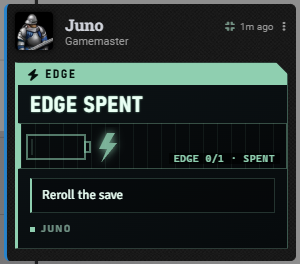
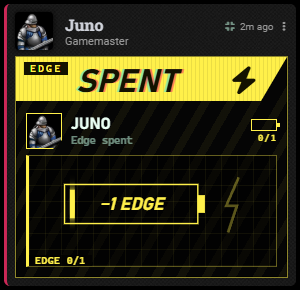
Chat cards: Edge spent, Downed and Flatline as cut-in cards; dice on plain rolls
Edge spent (no play), Downed and Flatline use the Edge plays' cut-in card in
their own colours: a draining cell, a faltering pulse, a pulse that stops,
with the Strikes so far. The posted words stay, so older cards redraw too.
A Downed card offers its owner Stabilize while they hold Edge, and redraws
as the actor changes. The earlier small scopes are gone.

Formula, Hit Die, Hit Points and recharge rolls show their dice as chips
under the title instead of repeating the formula.

diff --git a/scripts/hardwipe-message-cards.js b/scripts/hardwipe-message-cards.js
@@ -1,5 +1,8 @@
 import { MODULE_ID, escapeHTML } from "./hardwipe-state.js";
 import { rendersRequest } from "./hardwipe-requests.js";
+import { arrivalWindow } from "./hardwipe-attack-cards.js";
+import { cutInHTML, stabilize } from "./hardwipe-edge.js";
+import { DownedManager, EdgeManager, StrikesManager, canControlActor } from "./hardwipe-state.js";
 
 /**
  * Message cards, each in its own colour from the Card colours window:
@@ -35,6 +38,8 @@ export function registerMessageCards() {
     if (message.type === "turn") snapshotTurn(message);
   });
   Hooks.once("setup", () => Hooks.on("dnd5e.renderChatMessage", (message, html) => render(message, html)));
+  // A Downed card's Stabilize button follows its actor (Edge spent, back on their feet).
+  Hooks.on("updateActor", actor => rerender(message => message.flags?.[MODULE_ID]?.actorId === actor.id && message.flags?.[MODULE_ID]?.kind === "downed"));
 }
 
 function rerender(filter) {
@@ -81,36 +86,61 @@ function systemCard(message, element, card) {
   const kicker = card.querySelector(":scope > .hardwipe-chat-kicker");
   if (kicker && !kicker.querySelector(":scope > i")) kicker.insertAdjacentHTML("afterbegin", `<i class="fas ${SYSTEM_ICONS[kind]}" inert></i>`);
   element.classList.add("hardwipe-sys-message");
-  systemScope(message, card, kind);
+  if (["edge", "downed", "flatlined"].includes(kind)) survivalCard(message, element, card, kind);
 }
 
+const TRACES = {
+  edge: "",
+  // A pulse that falters and nearly fades: still alive.
+  downed: "0,58 40,58 46,50 52,66 58,58 100,58 105,53 110,63 115,58 160,58 163,56 166,60 169,58 210,58",
+  // Two beats, then nothing.
+  flatlined: "0,58 30,58 38,20 46,90 54,58 84,58 92,30 100,82 108,58 210,58"
+};
+
 /**
- * Edge spent, Downed and Flatline get a small scope under the title, in the family of the consumable and tool cards:
- * a charge cell discharging, a faltering trace, a trace that stops. Decoration only; the card's words stay.
+ * Edge spent, Downed and Flatline as cut-in cards, in the family of the Edge plays: the band in the card's own colour,
+ * whose card it is, and a scope (a draining cell, a faltering pulse, a pulse that stops) over the posted line. The
+ * card's words come from what was posted, so older cards redraw the same way. A Downed card offers its owner
+ * Stabilize while they hold Edge.
  */
-function systemScope(message, card, kind) {
-  if (!["edge", "downed", "flatlined"].includes(kind) || card.querySelector(":scope > .hardwipe-sys-scope")) return;
+function survivalCard(message, element, card, kind) {
   const actor = game.actors.get(message.flags?.[MODULE_ID]?.actorId) ?? ChatMessage.implementation.getSpeakerActor?.(message.speaker);
+  const text = selector => card.querySelector(selector)?.textContent.trim() ?? "";
+  const kicker = text(":scope > .hardwipe-chat-kicker") || t(`Survival.${kind}.Kicker`);
+  const title = text(":scope > .hardwipe-chat-title");
+  const subtitle = text(":scope > .hardwipe-chat-subtitle");
   const strikes = kind === "flatlined" ? 3 : Math.max(0, Math.min(3, Number(actor?.getFlag?.(MODULE_ID, "strikes")) || 0));
-  const pips = Array.from({ length: 3 }, (_, i) => `<i class="${i < strikes ? "is-on" : ""}"></i>`).join("");
-  const art = {
-    edge: `<svg viewBox="0 0 120 40" width="120" height="40"><rect class="sys-cell" x="6" y="8" width="58" height="24"/><rect class="sys-cell" x="64" y="15" width="5" height="10"/>
-      <rect class="sys-charge" x="10" y="12" width="50" height="16"/><path class="sys-bolt" d="M86 6 L78 22 L86 22 L80 36 L96 16 L88 16 L94 6 Z"/></svg>`,
-    downed: `<svg viewBox="0 0 270 40" preserveAspectRatio="none"><polyline class="sys-trace" points="0,26 30,26 36,22 40,30 46,26 90,26 96,24 100,28 104,26 170,26 174,25 178,27 182,26 270,26"/></svg>`,
-    flatlined: `<svg viewBox="0 0 270 40" preserveAspectRatio="none"><polyline class="sys-trace" points="0,26 24,26 30,10 36,36 42,26 70,26 76,16 82,32 88,26 270,26"/></svg>`
-  }[kind];
-  const label = {
-    edge: game.i18n.localize("HARDWIPE.SysScope.Edge"),
-    downed: game.i18n.format("HARDWIPE.SysScope.Downed", { n: strikes }),
-    flatlined: game.i18n.localize("HARDWIPE.SysScope.Flatline")
-  }[kind];
-  const scope = document.createElement("div");
-  scope.className = `hardwipe-sys-scope is-${kind}`;
-  scope.setAttribute("aria-hidden", "true");
-  scope.innerHTML = `<div class="hardwipe-sys-art">${art}</div><div class="hardwipe-sys-read">${kind === "edge" ? "" : `<span class="hardwipe-sys-pips">${pips}</span>`}<span>${escapeHTML(label)}</span></div>`;
-  card.querySelector(":scope > .hardwipe-chat-title")?.after(scope);
-  const fresh = Date.now() - (message.timestamp ?? 0) < 8000 && !globalThis.matchMedia?.("(prefers-reduced-motion: reduce)").matches;
-  if (fresh) scope.classList.add("is-arriving");
+  const pips = [0, 1, 2].map(i => `<rect class="hwe-spip${i < strikes ? " is-on" : ""}" x="${i * 18}" y="4" width="8" height="8" transform="rotate(45 ${i * 18 + 4} 8)"/>`).join("");
+  const stage = kind === "edge"
+    ? `<svg viewBox="0 0 278 96" aria-hidden="true"><rect class="hwe-cellb" x="40" y="26" width="150" height="44"/><rect class="hwe-nub" x="190" y="38" width="8" height="20"/>
+        <rect class="hwe-charge hwe-drain" x="46" y="32" width="138" height="32"/><text class="hwe-plus is-spent hwe-pop" x="115" y="49">${escapeHTML(t("Survival.edge.Minus"))}</text>
+        <path class="hwe-arc is-dim" d="M236 18 L222 50 L234 50 L224 80"/></svg>`
+    : `<svg viewBox="0 0 278 96" aria-hidden="true"><polyline class="hwe-ecg hwe-draw" points="${TRACES[kind]}"/>
+        <text class="hwe-big hwe-pop" x="270" y="40">${escapeHTML(t(`Survival.${kind}.Big`))}</text><text class="hwe-small" x="270" y="54">${escapeHTML(t("Survival.Strikes", { n: strikes }))}</text>
+        <g transform="translate(222 66)">${pips}</g></svg>`;
+  const canStabilize = kind === "downed" && actor && canControlActor(actor) && EdgeManager.get(actor) > 0 && strikes < 3 && !actor.statuses?.has("dead")
+    && (DownedManager.isDowned(actor) || Number(actor.system?.attributes?.hp?.value) <= 0);
+  const content = card.parentElement;
+  const holder = document.createElement("div");
+  holder.innerHTML = cutInHTML({
+    // The band keeps one short word; what was posted as the title reads under the name.
+    cls: `is-${kind} is-survival`, kicker, use: t(`Survival.${kind}.Use`),
+    img: escapeHTML(actor?.img ?? "icons/svg/mystery-man.svg"), name: escapeHTML(actor?.name ?? message.speaker?.alias ?? ""),
+    sub: kind === "edge" ? subtitle : title && title.toLocaleLowerCase() !== t(`Survival.${kind}.Use`).toLocaleLowerCase() ? title : t(`Survival.${kind}.Sub`), stage,
+    line: kind === "edge" ? t("Survival.edge.Line") : subtitle,
+    cell: kind === "edge" ? `<span class="hwe-cell"><i></i>0/1</span>` : "",
+    icon: `<i class="hwe-icon fas ${SYSTEM_ICONS[kind]}" inert></i>`,
+    foot: canStabilize ? `<button type="button" class="hwe-btn is-go" data-hw-stabilize>${escapeHTML(t("Survival.Stabilize"))}</button>` : "",
+    fresh: arrivalWindow(message, "survival", 1600) > 0
+  });
+  const cut = holder.firstElementChild;
+  card.replaceWith(cut);
+  cut.querySelector("[data-hw-stabilize]")?.addEventListener("click", event => {
+    event.preventDefault();
+    event.currentTarget.disabled = true;
+    void stabilize(actor);
+  });
+  if (content) content.classList.add("hardwipe-survival-content");
 }
 
 /* Shield Block: a targeting HUD over the shield's HP -------------------------------------------- */
@@ -248,7 +278,30 @@ function rollCard(message, element, content) {
   if (kind === "recharge" && roll) tag = t(roll.isSuccess ? "Roll.Recharged" : "Roll.NotRecharged");
   const card = frame(content, { kind, icon, label: t(`Roll.${kind}`), tag, title });
   if (kind === "recharge" && roll) card.classList.add(roll.isSuccess ? "is-success" : "is-failure");
+  const chips = diceChips(message.rolls ?? []);
+  if (chips) card.querySelector(".hardwipe-msg-body")?.insertAdjacentHTML("afterbegin", chips);
   element.classList.add("hardwipe-dice-message");
+}
+
+/**
+ * Each die as a chip, in roll order (a die's highest face lit, a 1 dimmed red; dropped dice struck), and any flat
+ * bonus: the roll at a glance. The native total below still opens the full breakdown.
+ */
+function diceChips(rolls) {
+  const out = [];
+  for (const roll of rolls) {
+    for (const term of roll.terms ?? []) {
+      if (term instanceof foundry.dice.terms.DiceTerm) {
+        for (const result of term.results ?? []) {
+          const dropped = result.active === false || result.discarded;
+          const cls = dropped ? "is-dropped" : result.result === term.faces ? "is-max" : result.result === 1 ? "is-min" : "";
+          out.push(`<i class="${cls}" data-tooltip="d${term.faces}">${escapeHTML(result.result)}</i>`);
+        }
+      } else if (term instanceof foundry.dice.terms.NumericTerm && Number(term.number)) out.push(`<span>${escapeHTML(term.expression ?? term.number)}</span>`);
+      else if (term instanceof foundry.dice.terms.OperatorTerm) out.push(`<em>${escapeHTML(term.operator)}</em>`);
+    }
+  }
+  return out.length ? `<div class="hardwipe-roll-chips">${out.join("")}</div>` : "";
 }
 
 /** The message's item, if any. dnd5e's lookup can throw on a message with an actor and no item. */

diff --git a/styles/edge.css b/styles/edge.css
@@ -17,7 +17,7 @@
 .hwe-slash { position: relative; display: grid; grid-template-columns: auto 1fr auto; align-items: end; gap: 8px; height: 50px; padding: 0 10px 4px 0; }
 .hwe-band { position: absolute; inset: 0 0 6px 0; background: var(--hw-edge); clip-path: polygon(0 0, 100% 0, calc(100% - 26px) 100%, 0 100%); }
 .hwe-band::after { content: ""; position: absolute; inset: 0; background: repeating-linear-gradient(90deg, transparent 0 3px, rgba(0, 0, 0, 0.08) 3px 4px); }
-.hwe-kick { position: relative; align-self: start; margin: 5px 0 0 8px; padding: 1px 6px; color: var(--hw-edge); background: var(--hw-edge-ink); font: 700 10px var(--hw-font-mono); letter-spacing: 0.22em; text-transform: uppercase; }
+.hwe-kick { position: relative; align-self: start; white-space: nowrap; margin: 5px 0 0 8px; padding: 1px 6px; color: var(--hw-edge); background: var(--hw-edge-ink); font: 700 10px var(--hw-font-mono); letter-spacing: 0.22em; text-transform: uppercase; }
 .hwe-use { position: relative; margin-bottom: 5px; color: var(--hw-edge-ink); font: italic 800 32px/0.9 var(--hw-font-disp); letter-spacing: 0.02em; text-transform: uppercase;
   text-shadow: 2px 0 0 rgba(255, 46, 99, 0.55), -2px 0 0 rgba(70, 230, 220, 0.55); white-space: nowrap; }
 .hwe-use.is-long { font-size: 26px; letter-spacing: 0; }
@@ -36,7 +36,7 @@
 .hwe-stage { position: relative; height: 112px; margin: 2px 10px 0; overflow: hidden; border: 1px solid rgba(var(--use-rgb), 0.35); border-left: 3px solid var(--use);
   background: repeating-linear-gradient(90deg, rgba(var(--use-rgb), 0.06) 0 1px, transparent 1px 16px), repeating-linear-gradient(0deg, rgba(var(--use-rgb), 0.06) 0 1px, transparent 1px 16px), rgba(0, 0, 0, 0.5); }
 .hwe-stage svg { position: absolute; inset: 0 0 auto 0; width: 100%; height: 96px; overflow: visible; }
-.hwe-line { position: absolute; left: 0; bottom: 0; padding: 0 6px; color: var(--use); background: rgba(0, 0, 0, 0.7); font: 700 9.5px var(--hw-font-mono); letter-spacing: 0.08em; text-transform: uppercase; }
+.hwe-line { position: absolute; left: 0; bottom: 0; max-width: 100%; padding: 0 6px; color: var(--use); background: rgba(0, 0, 0, 0.7); font: 700 9.5px var(--hw-font-mono); letter-spacing: 0.08em; text-transform: uppercase; }
 .hwe-gap { height: 10px; }
 .hwe-foot { position: relative; display: flex; flex-wrap: wrap; gap: 6px; justify-content: flex-end; align-items: center; padding: 7px 10px 8px; }
 .hwe-or { color: var(--hw-dim); font: 700 10px var(--hw-font-mono); }
@@ -46,6 +46,37 @@
 .hwe-btn:hover { filter: brightness(1.15); }
 .hwe-stamp { position: absolute; right: 18px; top: 112px; padding: 2px 10px; color: var(--hw-edge); background: rgba(0, 0, 0, 0.6); border: 2px solid var(--hw-edge);
   font: italic 800 16px var(--hw-font-disp); letter-spacing: 0.1em; text-transform: uppercase; transform: rotate(-6deg); }
+
+/* Survival cards (Edge spent, Downed, Flatline): the band in the card's own colour. */
+.hwe.is-survival { --band: var(--hw-edge); --band-ink: var(--hw-edge-ink); }
+.hwe.is-downed { --use: var(--hw-warn); --use-rgb: 255, 194, 77; --band: var(--hw-warn); --band-ink: #1a1205; }
+.hwe.is-flatlined { --use: var(--hw-alert); --use-rgb: 255, 63, 95; --band: var(--hw-alert); --band-ink: #1a0308; }
+.hwe.is-survival .hwe-band { background: var(--band); }
+.hwe.is-survival .hwe-kick { color: var(--band); background: var(--band-ink); }
+.hwe.is-survival .hwe-use { color: var(--band-ink); }
+.hwe.is-survival .hwe-who img { border-color: var(--use); box-shadow: 0 0 8px rgba(var(--use-rgb), 0.5); }
+.hwe-icon { position: relative; align-self: center; margin-right: 22px; color: var(--band-ink, var(--hw-edge-ink)); font-size: 26px; }
+.hwe.is-flatlined .hwe-ecg { stroke: var(--hw-alert); filter: drop-shadow(0 0 3px var(--hw-alert)); }
+.hwe.is-flatlined .hwe-spip, .hwe.is-flatlined .hwe-spip.is-on { stroke: var(--hw-alert); }
+.hwe.is-flatlined .hwe-spip.is-on { fill: var(--hw-alert); }
+.hwe.is-flatlined::after { content: ""; position: absolute; inset: auto 0 0; height: 6px; background: repeating-linear-gradient(-45deg, var(--hw-alert) 0 8px, #000 8px 16px); opacity: 0.8; }
+.hwe-plus.is-spent { fill: var(--hw-edge); }
+.hwe-arc.is-dim { opacity: 0.35; }
+.hwe-drain { transform: scaleX(0.04); transform-box: fill-box; transform-origin: left; }
+.hwe.is-fresh .hwe-drain { animation: hwe-drain 0.9s 0.3s steps(6) both; }
+@keyframes hwe-drain { from { transform: scaleX(1); } to { transform: scaleX(0.04); } }
+.hardwipe-survival-content { padding: 0; }
+
+/* Plain rolls: the dice at a glance */
+.hardwipe-roll-chips { display: flex; flex-wrap: wrap; gap: 4px; align-items: center; margin: 0 0 6px; font-family: var(--hw-font-disp); }
+.hardwipe-roll-chips i { display: grid; place-items: center; min-width: 24px; height: 24px; padding: 0 4px; color: var(--hw-hi); font: 700 13px var(--hw-font-disp); font-style: normal;
+  background: rgba(0, 0, 0, 0.5); border: 1px solid var(--hw-line-2); }
+.hardwipe-roll-chips i.is-max { color: #04110c; background: var(--hw-phos); border-color: var(--hw-phos); box-shadow: 0 0 6px rgba(143, 207, 176, 0.5); }
+.hardwipe-roll-chips i.is-min { color: var(--hw-alert); border-color: rgba(255, 63, 95, 0.6); }
+.hardwipe-roll-chips i.is-dropped { opacity: 0.4; text-decoration: line-through; border-style: dashed; }
+.hardwipe-roll-chips span { color: var(--hw-hi); font: 700 13px var(--hw-font-mono); }
+.hardwipe-roll-chips em { color: var(--hw-dim); font: 700 12px var(--hw-font-mono); font-style: normal; }
+.hardwipe-msg-card:is([data-hw-kind="formula"], [data-hw-kind="roll"], [data-hw-kind="hitDie"], [data-hw-kind="hitPoints"], [data-hw-kind="recharge"]) .dice-roll .dice-formula { display: none; }
 
 /* Scope art */
 .hwe-tear .hwe-bar { fill: rgba(70, 230, 220, 0.16); stroke: rgba(70, 230, 220, 0.6); }

diff --git a/styles/hardwipe.css b/styles/hardwipe.css
@@ -3789,27 +3789,3 @@ button.hardwipe-adv-btn.is-crit { --hw-adv: var(--hw-c-critical, var(--hw-cyan))
 .hardwipe-dialog .rsm-bonus-choice { display: flex; align-items: center; gap: 8px; margin: 0 0 8px; }
 .hardwipe-dialog .rsm-bonus-choice span { display: flex; align-items: baseline; gap: 8px; }
 .hardwipe-dialog .rsm-bonus-choice small { color: var(--hw-dim); font: 600 11px var(--hw-font-mono); }
-
-/* System card scopes (Edge spent, Downed, Flatline): decoration under the title, in the card's own colour. */
-.hardwipe-sys-scope { --sys: var(--hw-phos); position: relative; height: 46px; margin: 6px 0 8px; overflow: hidden; color: var(--sys);
-  background: repeating-linear-gradient(90deg, color-mix(in srgb, var(--sys) 8%, transparent) 0 1px, transparent 1px 14px), rgba(0, 0, 0, 0.35);
-  border: 1px solid color-mix(in srgb, var(--sys) 35%, transparent); border-left: 3px solid var(--sys); pointer-events: none; }
-.hardwipe-sys-scope.is-downed { --sys: var(--hw-warn); }
-.hardwipe-sys-scope.is-flatlined { --sys: var(--hw-alert); }
-.hardwipe-sys-art { position: absolute; inset: 3px 0 0; }
-.hardwipe-sys-art svg { width: 100%; height: 40px; }
-.hardwipe-sys-scope.is-edge .hardwipe-sys-art svg { width: 120px; }
-.hardwipe-sys-art .sys-trace { fill: none; stroke: currentColor; stroke-width: 2; filter: drop-shadow(0 0 3px currentColor); stroke-dasharray: 600; }
-.hardwipe-sys-art .sys-cell { fill: none; stroke: currentColor; stroke-width: 1.4; opacity: 0.8; }
-.hardwipe-sys-art .sys-charge { fill: color-mix(in srgb, currentColor 18%, transparent); }
-.hardwipe-sys-art .sys-bolt { fill: currentColor; filter: drop-shadow(0 0 4px currentColor); opacity: 0.85; }
-.hardwipe-sys-read { position: absolute; right: 6px; bottom: 4px; display: flex; align-items: center; gap: 6px; padding: 0 5px; background: rgba(0, 0, 0, 0.6); font: 700 9.5px var(--hw-font-mono); letter-spacing: 0.08em; text-transform: uppercase; }
-.hardwipe-sys-pips { display: inline-flex; gap: 3px; }
-.hardwipe-sys-pips i { width: 7px; height: 7px; border: 1px solid currentColor; transform: rotate(45deg); }
-.hardwipe-sys-pips i.is-on { background: currentColor; }
-.hardwipe-sys-scope.is-arriving .sys-trace { animation: hardwipe-sys-draw 1.4s ease-out both; }
-.hardwipe-sys-scope.is-arriving .sys-charge { animation: hardwipe-sys-drain 0.9s 0.2s ease-in both; transform-box: fill-box; transform-origin: left; }
-.hardwipe-sys-scope.is-edge .sys-charge { transform: scaleX(0.04); transform-box: fill-box; transform-origin: left; }
-@keyframes hardwipe-sys-draw { from { stroke-dashoffset: 600; } to { stroke-dashoffset: 0; } }
-@keyframes hardwipe-sys-drain { from { transform: scaleX(1); } to { transform: scaleX(0.04); } }
-@media (prefers-reduced-motion: reduce) { .hardwipe-sys-scope * { animation: none !important; } }

diff --git a/scripts/hardwipe-edge.js b/scripts/hardwipe-edge.js
@@ -145,22 +145,30 @@ function renderPlay(message, element, data) {
   }
   const view = PLAY_VIEWS[data.play]?.(data, actor, message);
   if (!view) return;
-  const use = t(`${data.play}.Name`);
-  content.innerHTML = `<div class="hwe is-${data.play}${fresh ? " is-fresh" : ""}">
-    <div class="hwe-slash"><span class="hwe-band"></span><span class="hwe-kick">${escapeHTML(t("Kicker"))}</span>
-      <span class="hwe-use${use.length > 7 ? " is-long" : ""}">${escapeHTML(use)}</span>${bolt("hwe-bolt")}</div>
-    <div class="hwe-who"><img src="${img}" alt=""><div><b>${name}</b><small>${escapeHTML(view.sub)}</small></div>
-      <span class="hwe-cell${data.play === "charged" ? " is-full" : ""}"><i></i>${data.play === "charged" ? "1" : "0"}/1</span></div>
-    <div class="hwe-stage">${view.stage}<span class="hwe-line">${escapeHTML(view.line)}</span></div>
-    ${view.stamp ? `<span class="hwe-stamp">${escapeHTML(view.stamp)}</span>` : ""}
-    ${view.foot ? `<div class="hwe-foot">${view.foot}</div>` : `<div class="hwe-gap"></div>`}
-  </div>`;
+  const full = data.play === "charged";
+  content.innerHTML = cutInHTML({ ...view, cls: `is-${data.play}`, use: t(`${data.play}.Name`), img, name, fresh,
+    cell: `<span class="hwe-cell${full ? " is-full" : ""}"><i></i>${full ? "1" : "0"}/1</span>` });
   for (const button of content.querySelectorAll("[data-edge-slot]")) {
     button.addEventListener("click", event => {
       event.preventDefault();
       if (actor) void useInterrupt(actor, button.dataset.edgeSlot, "");
     });
   }
+}
+
+/**
+ * A cut-in card: the band with the kicker and a big name, who it's about, a scope with a line under it, an optional
+ * stamp and buttons. Edge plays use it, and so do the survival cards (Downed, Flatline). `img` and `name` arrive escaped.
+ */
+export function cutInHTML({ cls = "", kicker = t("Kicker"), use, img, name, sub = "", cell = "", stage, line = "", stamp = "", foot = "", fresh = false, icon = null }) {
+  return `<div class="hwe ${cls}${fresh ? " is-fresh" : ""}">
+    <div class="hwe-slash"><span class="hwe-band"></span><span class="hwe-kick">${escapeHTML(kicker)}</span>
+      <span class="hwe-use${use.length > 7 ? " is-long" : ""}">${escapeHTML(use)}</span>${icon ?? bolt("hwe-bolt")}</div>
+    <div class="hwe-who"><img src="${img}" alt=""><div><b>${name}</b><small>${escapeHTML(sub)}</small></div>${cell}</div>
+    <div class="hwe-stage">${stage}<span class="hwe-line">${escapeHTML(line)}</span></div>
+    ${stamp ? `<span class="hwe-stamp">${escapeHTML(stamp)}</span>` : ""}
+    ${foot ? `<div class="hwe-foot">${foot}</div>` : `<div class="hwe-gap"></div>`}
+  </div>`;
 }
 
 const bolt = cls => `<svg class="${cls}" viewBox="0 0 30 40" aria-hidden="true"><path d="${BOLT_PATH}"/></svg>`;

diff --git a/docs/Cards.md b/docs/Cards.md
@@ -225,12 +225,19 @@ Completing the rest posts one combined receipt. Closing early produces an incomp
   </tr>
 </table>
 
+## Plain rolls
+
+<a href="media/roll-formula-current.png"><img src="media/roll-formula-current.png" alt="Roll card: Shotgun spread, 2d6 + 3, dice 2 and 4, plus 3, total 9" width="260"></a>
+
+*2026-10-18.* A formula roll, a Hit Die, Hit Points or a recharge shows its dice as chips under the title (a die's top face lit, a 1 in red), with the total below; the total still opens the full breakdown.
+
 ## Edge, Strikes, and Downed
 
 <table>
   <tr>
-    <td valign="top"><a href="media/system-edge-current.png"><img src="media/system-edge-current.png" alt="Edge Spent card with a discharged cell and the reason, Reroll the save" width="280"></a><br><strong>Edge spent (2026-10-18)</strong><br>A charge cell discharging beside the bolt.</td>
-    <td valign="top"><a href="media/system-flatline-current.png"><img src="media/system-flatline-current.png" alt="Flatline card: a heartbeat trace that stops, Strikes 3 of 3, no pulse" width="280"></a><br><strong>Flatline (2026-10-18)</strong><br>The trace stops: Strikes 3/3, no pulse.</td>
+    <td valign="top"><a href="media/system-edge-current.png"><img src="media/system-edge-current.png" alt="Spent card: Juno, Edge spent, a cell draining to empty, Edge 0 of 1" width="250"></a><br><strong>Edge spent (2026-10-18)</strong><br>Just spend, with no play: the cell drains.</td>
+    <td valign="top"><a href="media/system-downed-current.png"><img src="media/system-downed-current.png" alt="Downed card: Mags at 0 HP, Strikes 1 of 3, Use Edge, ally action, or healing to recover, Stabilize 1 Edge" width="250"></a><br><strong>Downed (2026-10-18)</strong><br>A pulse that falters, the Strikes so far; Stabilize for its owner while they hold Edge.</td>
+    <td valign="top"><a href="media/system-flatline-current.png"><img src="media/system-flatline-current.png" alt="Flatline card: Juno dead, a trace that stops, no pulse, Strikes 3 of 3" width="250"></a><br><strong>Flatline (2026-10-18)</strong><br>Two beats, then nothing: Strikes 3/3.</td>
   </tr>
 </table>
 

diff --git a/docs/Media.md b/docs/Media.md
@@ -174,15 +174,24 @@ Captured on **2026-10-17** from the local Crew Maneuvers branch in a private cop
 
 ## Gallery refresh captures
 
-Captured on **2026-10-18** in the disposable QA world: three Heavy Pistol attacks by the QA Player against a QA NPC, ruled Hit, Critical and Miss by the GM; and Edge spent and Flatline for Juno, posted by the GM through Hardwipe's API.
+Captured on **2026-10-18** in the disposable QA world: three Heavy Pistol attacks by the QA Player against a QA NPC, ruled Hit, Critical and Miss by the GM. (Edge spent and Flatline were recaptured later: see Chat card captures.)
 
 | Published file | Subject |
 | --- | --- |
 | [attack-hit-current.png](media/attack-hit-current.png) | Confirmed hit: 8 to hit, 9 damage. |
 | [attack-crit-current.png](media/attack-crit-current.png) | Critical hit: CRIT on the damage line, 21 piercing. |
 | [attack-miss-current.png](media/attack-miss-current.png) | Confirmed miss: 6 to hit, the target greyed. |
-| [system-edge-current.png](media/system-edge-current.png) | Edge spent with its scope, reason Reroll the save. |
-| [system-flatline-current.png](media/system-flatline-current.png) | Flatline with its scope, Strikes 3/3. |
+
+## Chat card captures
+
+Captured on **2026-10-18** in the disposable QA world: Edge spent with no play (Juno), the Downed card from a death save at 0 HP (Mags, holding Edge), Flatline at three Strikes (Juno), and a `2d6 + 3` roll.
+
+| Published file | Subject |
+| --- | --- |
+| [system-edge-current.png](media/system-edge-current.png) | Spent: the cell drains, Edge 0/1. |
+| [system-downed-current.png](media/system-downed-current.png) | Downed: 0 HP, Strikes 1/3, Stabilize · 1 Edge. |
+| [system-flatline-current.png](media/system-flatline-current.png) | Flatline: no pulse, Strikes 3/3. |
+| [roll-formula-current.png](media/roll-formula-current.png) | Shotgun spread: dice 2 and 4, + 3, total 9. |
 
 ## Edge captures
 

diff --git a/docs/Players.md b/docs/Players.md
@@ -102,7 +102,7 @@ The GM can switch the card to the compact **Glitch feed** instead.
 
 - **Reroll.** Any single die from anyone: an attack's d20 (yours, an ally's, an enemy's), one die of a damage roll, a save, a check. Pick the die from the list of recent cards (point at a card to find it in chat). The new die is rolled at once and both results appear on that card: you (or the GM) press **Keep** or **Reroll**, and everyone else sees that you're choosing. Taking the new die changes the card as any reroll does. Damage already applied is adjusted for everyone it hit. A save that flips moves that target between saved and failed on the spell, and their damage follows. An attack the GM already ruled on goes back to the GM, who rules again on the card: a hit that becomes a miss takes the damage back.
 - **Interrupt.** One action or bonus action, now, even on someone else's turn. The Turn tab shows **Interrupt · 1 action or bonus action**. Your next action or bonus action uses it, off turn without asking whether it was your reaction. Or press **Action** or **Bonus action** on the card. It lapses when the turn moves on.
-- **Stabilize.** At 0 HP: back up at 1 HP, Downed cleared, and the Strike from going down taken back. **Recover · 1 Edge** on the Strikes tray does the same.
+- **Stabilize.** At 0 HP: back up at 1 HP, Downed cleared, and the Strike from going down taken back. **Recover · 1 Edge** on the Strikes tray and **Stabilize · 1 Edge** on your Downed card do the same.
 - **Execute.** Target one mook (an NPC without Legendary Resistance) and it drops to 0 HP with no damage roll. The GM's client applies it, so a GM must be online.
 
 Each play posts its own card; an award posts a **Charged** card.
